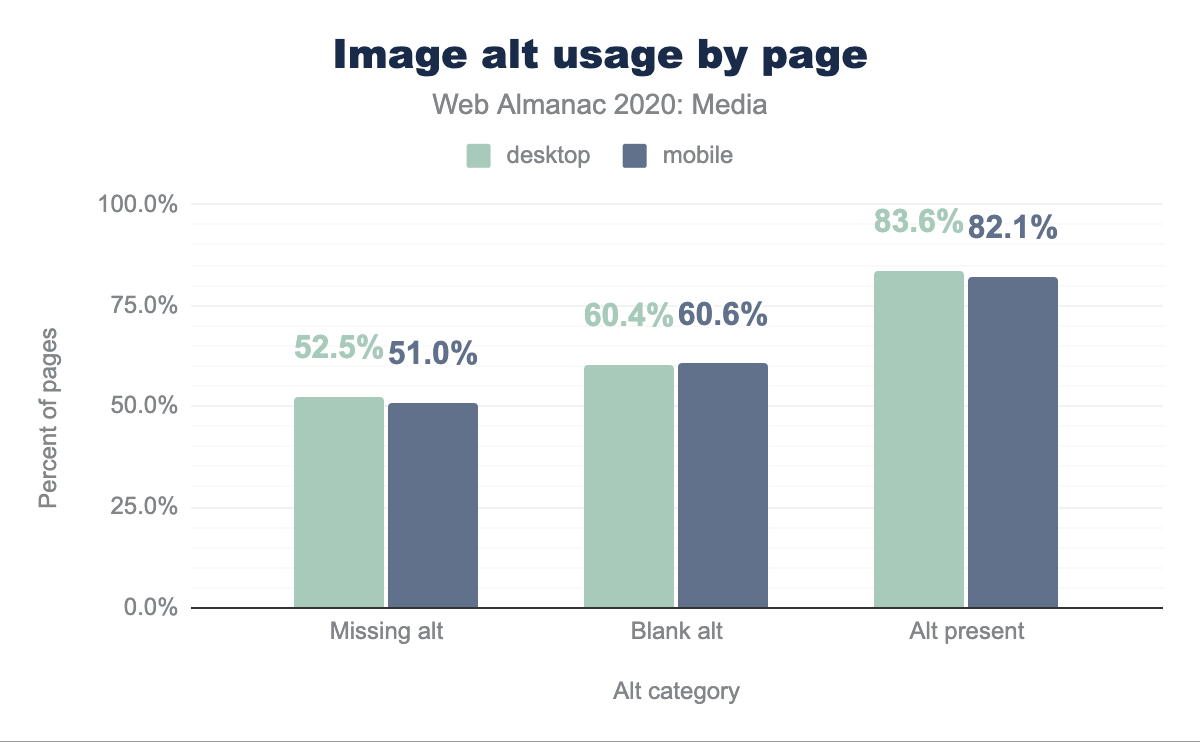
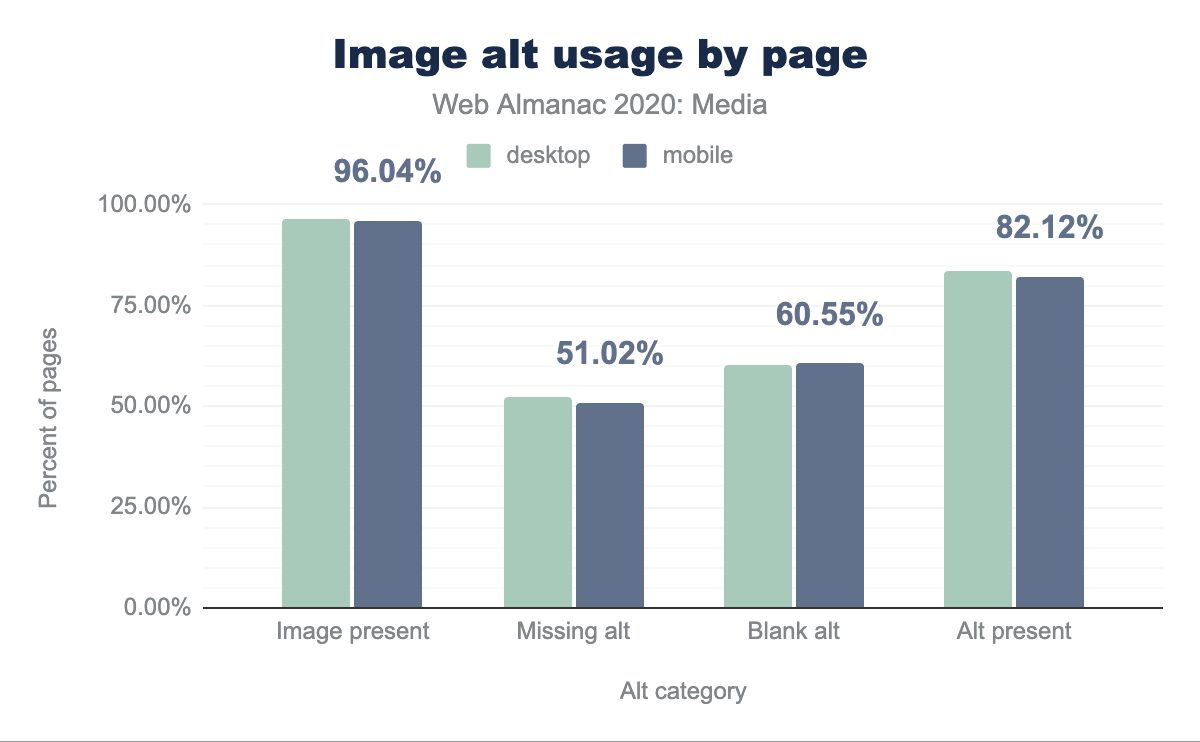
More charts descriptions

diff --git a/src/content/en/2020/media.md b/src/content/en/2020/media.md
@@ -125,7 +125,7 @@ For example:
 {{ figure_markup(
   image="srcset-sizes-usage.png",
   caption="Use of sizes in srcset.",
-  description="Stacked bar chart showinf 65.35% of srcset images uses sizes on desktop, with the remaining 34.65% not using it. On mobile it's 64.95% using and the remaing 35.05 not using.",
+  description="Stacked bar chart showing 65.35% of srcset images uses sizes on desktop, with the remaining 34.65% not using it. On mobile it's 64.95% using and the remaing 35.05 not using.",
   chart_url="https://docs.google.com/spreadsheets/d/e/2PACX-1vTLNnD9VNqXNxMu60VovxIEp_L6vmNo1oWt8-C18DOetXB3qIkee_-KjZwYYPIkkIM-7So-5wBwQ4QY/pubchart?oid=496958447&format=interactive",
   sheets_gid="768487310",
   sql_file="image_srcset_sizes.sql"
@@ -256,7 +256,7 @@ While the data shows that only a little under 1% of pages using picture make use
   image="picture-usage-of-orientation.png",
   alt="Picture usage of orientation.",
   caption="`<picture>` usage of orientation.",
-  description="Bar chart showing ",
+  description="Bar chart showing 0.93% of desktop pages and 0.91% of mobile pages use `<picture>` with orientation. 0.59% of occurances of `<picture>` on desktop and 0.60% on mobile use orientation.",
   chart_url="https://docs.google.com/spreadsheets/d/e/2PACX-1vTLNnD9VNqXNxMu60VovxIEp_L6vmNo1oWt8-C18DOetXB3qIkee_-KjZwYYPIkkIM-7So-5wBwQ4QY/pubchart?oid=56906843&format=interactive",
   sheets_gid="283790776",
   sql_file="picture_orientation.sql"
@@ -277,9 +277,9 @@ Example syntax:
 </picture>
 ```
 
-### Effective leveraging of more effective image formats
+### Effective leveraging of image formats
 
-{# TODO (authors) - can we have a sentence here to avoid an empty heading? Or should we just remove this heading and promot the other two under this? #}
+Using the appropiate image format and the capabilities that format offers is critical to make effective use of media on web pages.
 
 #### MIME types vs extensions
 
@@ -288,7 +288,7 @@ This section is rather interesting, we can observe a high distribution of extens
 {{ figure_markup(
   image="image-usage-by-extension.png",
   caption="Image usage by extension.",
-  description="Bar chart showing ",
+  description="Bar chart showing image usage by extension. `jpg` is the most used format at 40.26% of mobile, `png` is next with 26.90%, followed by no extension at 17.44%, `gif` at 6.59%, `svg` at 3.13%, `ico` at 1.83% and `jpeg` at 1.36%. Desktop is very simialr usage.",
   chart_url="https://docs.google.com/spreadsheets/d/e/2PACX-1vTLNnD9VNqXNxMu60VovxIEp_L6vmNo1oWt8-C18DOetXB3qIkee_-KjZwYYPIkkIM-7So-5wBwQ4QY/pubchart?oid=1607248506&format=interactive",
   sheets_gid="402973893",
   sql_file="image_mimetype_ext.sql"
@@ -304,7 +304,7 @@ We also looked at the usage of progressive JPEGs on the web. WebPageTest gives e
 {{ figure_markup(
   image="progressive-jpeg-score.png",
   caption="Progressive JPEG score.",
-  description="Bar chart showing ",
+  description="Bar chart showing progressive JPEG score. Desktop and mobile usage is approximately the same. 13.72% of mobile pages have a score < 0, 57.77% have a score of 0-25, 7.53% have a score of 25-50, 5.79% have a score of 50-75, and 15.19% have a score of 75-100.",
   chart_url="https://docs.google.com/spreadsheets/d/e/2PACX-1vTLNnD9VNqXNxMu60VovxIEp_L6vmNo1oWt8-C18DOetXB3qIkee_-KjZwYYPIkkIM-7So-5wBwQ4QY/pubchart?oid=1693689151&format=interactive",
   sheets_gid="1834242483",
   sql_file="score_progressive_jpeg.sql"
@@ -325,11 +325,9 @@ The Open Graph protocol only allows for *one* image or video URL to be included;
 
 Likewise, on the video front, the vast majority of resources are sent in the lowest-common-denominator format: MP4. We are  mystified as to why the second most popular format is the [now-depreciated](https://blog.adobe.com/en/publish/2017/07/25/adobe-flash-update.html#gs.my93m2) SWF, and curious whether these are playable in any microbrowser.
 
-### Usage of CDNs vs Local Domain for storing & delivering media
+### Usage of CDNs for storing & delivering media
 
 Media assets can be stored either locally, or on an Image CDN. The way assets are optmised, transformed and delivered to the end user highly depend on the appropriate technique used.
-
-#### `rel=preconnect`
 
 In some cases, resources displayed on a page would come from another origin. In this case the 'rel=preconnect' attribute can be used on a link element to advice browsers about this fact. Note that useful it may seem to add this option to your site, since it's a relatively cheap operation, there could be situations when additional CPU time is going to be utilised by establishing such connections. Interesting enough both on desktop and mobile we have seen a tiny amount of pages utilising this technique on desktop and mobile: 0.000054%, 0.000016% respectively.
 
@@ -343,12 +341,12 @@ Using the `alt` text not only helps accessibility for those who can't view the i
 
 #### Usage of `alt` text
 
-The 'alt' attribute for images is used to provide a description of the image. Albeit being an optional attribute, it is immensely useful for accessibility since screen-readers would read the alt text. Furthermore it's useful for situations when the image doesn't load - in that case the text is shown.
+The `alt` attribute for images is used to provide a description of the image. Albeit being an optional attribute, it is immensely useful for accessibility since screen-readers would read the alt text. Furthermore it's useful for situations when the image doesn't load - in that case the text is shown.
 
 {{ figure_markup(
   image="image-alt-usage-by-page.png",
   caption="Image alt usage by page.",
-  description="Bar chart showing ",
+  description="Bar chart showing 52.5% of desktop pages and 51.0% of mobile pages are missing alt attribute, 60.4% of desktop and 60.6% of mobile pages have blank alt attributes, and 83.6% of desktop and 82.1% of mobile pages have an alt present.",
   chart_url="https://docs.google.com/spreadsheets/d/e/2PACX-1vTLNnD9VNqXNxMu60VovxIEp_L6vmNo1oWt8-C18DOetXB3qIkee_-KjZwYYPIkkIM-7So-5wBwQ4QY/pubchart?oid=2144814052&format=interactive",
   sheets_gid="885941461",
   sql_file="image_alt.sql"
@@ -356,6 +354,16 @@ The 'alt' attribute for images is used to provide a description of the image. Al
 }}
 
 Around 96% of all the pages processed had an img element - 21% of these images had the alt attribute missing. 52% of the images had the alt attribute available, however 26% of these were left blank.
+
+{{ figure_markup(
+  image="image-alt-usage-by-image.png",
+  caption="Image alt usage by image.",
+  description="Bar chart showing 21.3% of mobile and 21.5% of desktop images are missing alt attributes, 26.2% of mobile and desktop images have blank alt attributes, and 52.5% of mobile and 52.3% of have alt attributes.",
+  chart_url="https://docs.google.com/spreadsheets/d/e/2PACX-1vTLNnD9VNqXNxMu60VovxIEp_L6vmNo1oWt8-C18DOetXB3qIkee_-KjZwYYPIkkIM-7So-5wBwQ4QY/pubchart?oid=71848371&format=interactive",
+  sheets_gid="885941461",
+  sql_file="image_alt.sql"
+  )
+}}
 
 #### Figure & Figcaption
 
